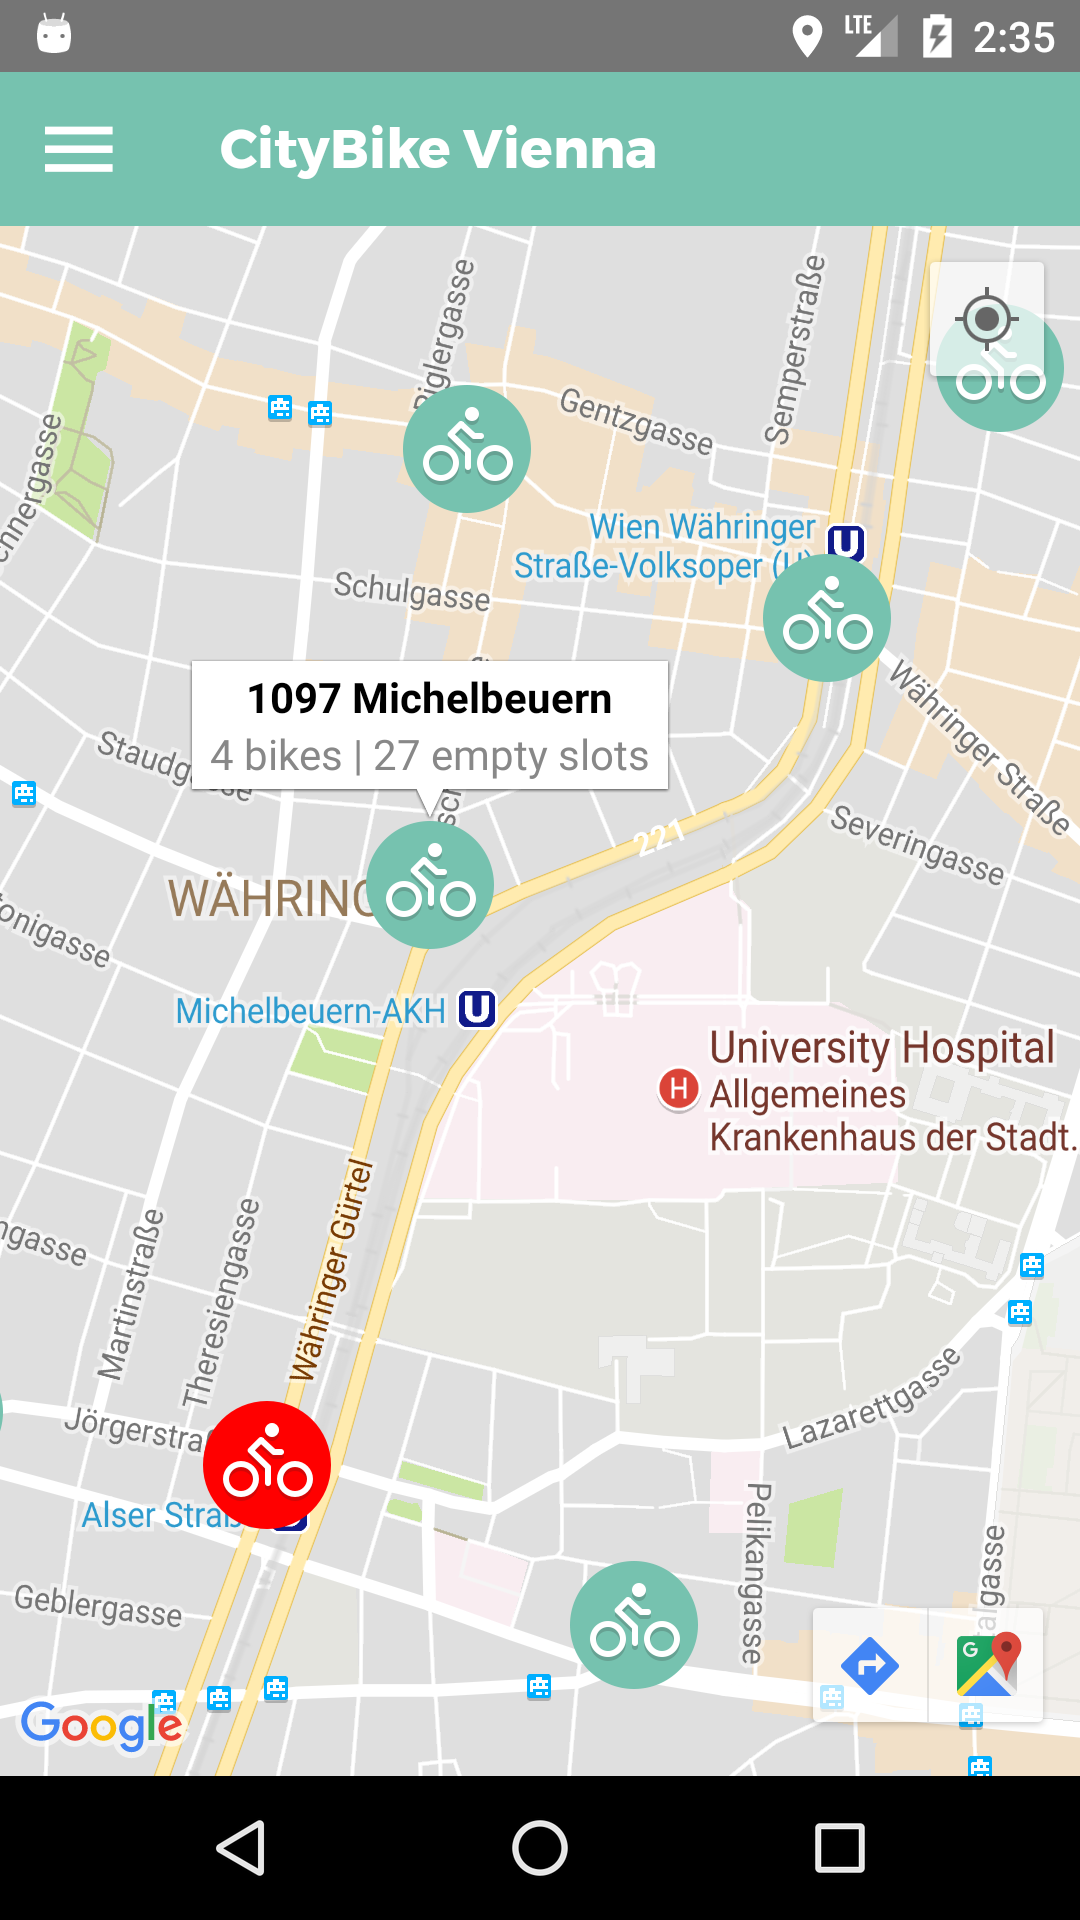
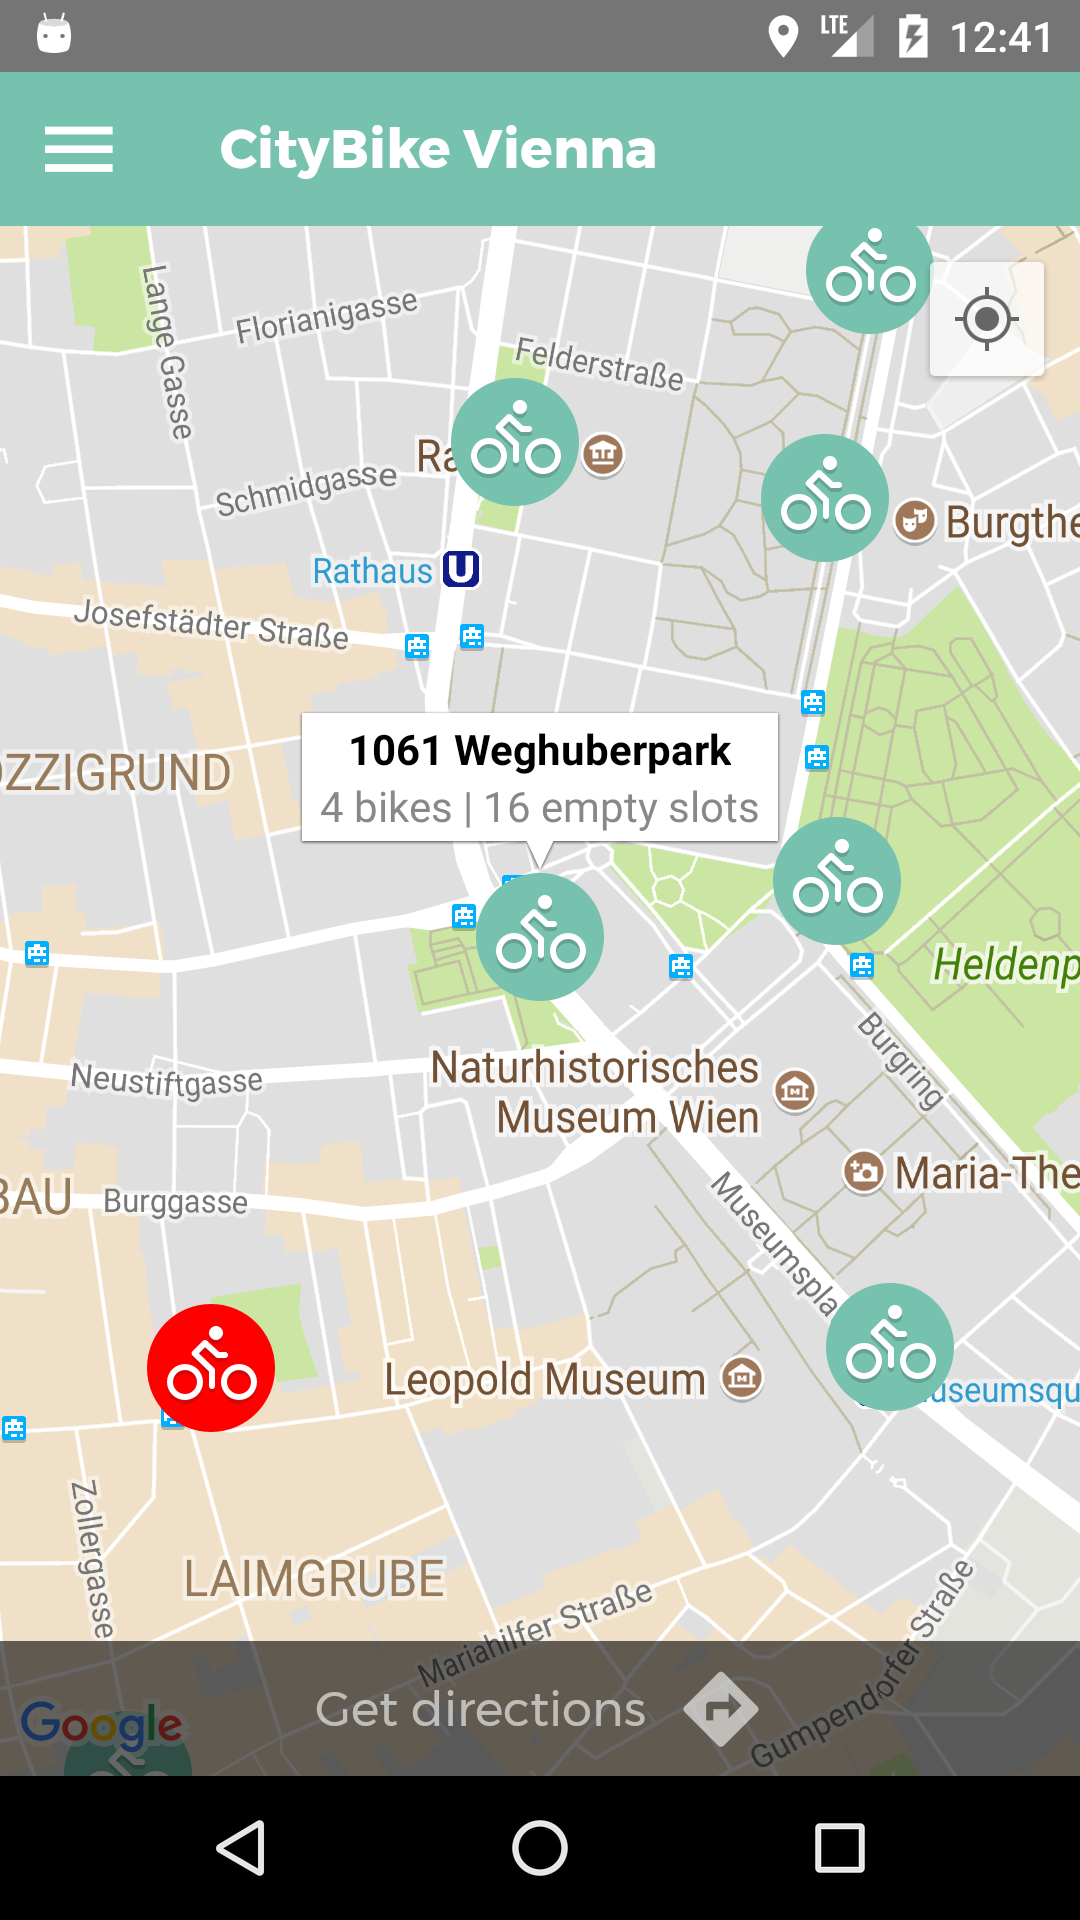
- show getdirections toolbar on marker Press

diff --git a/src/components/DirectionsToolbar.js b/src/components/DirectionsToolbar.js
@@ -1,0 +1,92 @@
+import React, { Component } from 'react';
+import GeolocationProvider from '.././lib/GeolocationProvider'
+import { View, Text, TouchableOpacity, Linking } from 'react-native'
+import Icon  from 'react-native-vector-icons/MaterialCommunityIcons';
+import styles from './styles/DirectionsToolbar'
+import { cWhite }  from '../styles/styles'
+
+class DirectionsToolbar extends Component {
+
+  constructor(props){
+    super()
+    this.state = {
+      show: false,
+      source: null,
+      destination: null
+    }
+  }
+
+  async show(destination){
+    try{
+      const position = await new GeolocationProvider().getPosition()
+      const source = { latitude: position.coords.latitude, longitude: position.coords.longitude}
+      this.setState({show: true, source: source, destination: destination})
+    }
+    catch(err){
+      this.setState({show: false})
+    }
+  }
+
+  hide(){
+    this.setState({show: false})
+  }
+
+  getParameterString = (params) => {
+    return params
+      .map(({ key, value }) => {
+        const encodedKey = encodeURIComponent(key)
+        const encodedValue = encodeURIComponent(value)
+
+        return `${encodedKey}=${encodedValue}`
+      })
+      .join('&')
+  }
+
+  getDirections = () => {
+    const params = []
+    const { source, destination } = this.state
+
+    params.push({
+      key: 'saddr',
+      value: `${source.latitude},${source.longitude}`
+    })
+
+    params.push({
+      key: 'daddr',
+      value: `${destination.latitude},${destination.longitude}`
+    })
+
+    const url = `http://maps.google.com/maps?${this.getParameterString(params)}`
+
+    return Linking.canOpenURL(url).then(supported => {
+      if (!supported) {
+        return Promise.reject(new Error(`Could not open the url: ${url}`))
+      } else {
+        return Linking.openURL(url)
+      }
+    })
+  }
+
+  render(){
+    if (this.state.show){
+      return(
+          <TouchableOpacity
+          style={styles.container}
+          onPress={this.getDirections.bind(this)}
+          >
+            <Text style = {styles.text}>
+              Get directions
+            </Text>
+            <Icon
+              name="directions"
+              size={30}
+              color={cWhite}
+            />
+          </TouchableOpacity>
+      )
+    }
+    return null;
+  }
+}
+
+export default DirectionsToolbar;

diff --git a/src/components/Plan.js b/src/components/Plan.js
@@ -1,7 +1,7 @@
 import React, { Component } from 'react';
 import { View, Text } from 'react-native';
 import MapView from 'react-native-maps';
-import StationCard from './StationCard';
+import { StationCard, DirectionsToolbar }  from '../components';
 import styles from './styles/Plan'
 
 const LATITUDE_DELTA = 0.00922*1.5
@@ -27,6 +27,17 @@ class Plan extends Component {
     }
   }
 
+  onMarkerPress(e) {
+    const destination = e.nativeEvent.coordinate
+    this.directionsToolbar.show(destination)
+  }
+
+  onPress(e) {
+    if (e.nativeEvent.action !== 'marker-press') { //user pressed anywhere else in the map,
+      this.directionsToolbar.hide()
+    }
+  }
+
   componentWillMount() {
      //Hack to ensure the showsMyLocationButton is shown initially. Idea is to force a map repaint.
     setTimeout(()=> this.setState({
@@ -41,9 +52,9 @@ class Plan extends Component {
           style={styles.map}
           region={this.state.mapRegion}
           showsUserLocation={true}
-          showsMyLocationButton={true}
-          toolbarEnabled = {true}
+          toolbarEnabled = {false}
           zoomEnabled={true}
+          onPress={this.onPress.bind(this)}
           >
           {stations.map(station => (
             <MapView.Marker
@@ -56,10 +67,14 @@ class Plan extends Component {
               description={`${station.free_bikes} bikes | ${station.empty_slots} empty slots`}
               key={station.id}
               ref={station.id}
+              onPress={this.onMarkerPress.bind(this)}
               >
             </MapView.Marker>
           ))}
         </MapView>
+        <DirectionsToolbar
+          ref = { (ref) => this.directionsToolbar = ref }
+        />
       </View>
     );
   }

diff --git a/src/screens/AboutScreen.js b/src/screens/AboutScreen.js
@@ -3,7 +3,7 @@ import { Header } from '../components'
 import { View, ListView, Text , Linking} from 'react-native'
 import { List, ListItem , Avatar} from 'react-native-elements'
 import Icon  from 'react-native-vector-icons/Ionicons';
-
+import { cBlack } from '.././styles/styles';
 
 class AboutScreen extends Component {
   static navigationOptions = {
@@ -45,7 +45,7 @@ class AboutScreen extends Component {
             onPress={() => Linking.openURL('https://github.com/tomekz/viennaBike-native')}
           />
         </List>
-        <Text style={{margin:15, fontFamily: 'Montserrat-Regular'}}>Citybike Wien and the GEWISTA Werbegesellschaft m.b.H. are not responsible for the content of this application
+        <Text style={{margin:15, fontFamily: 'Montserrat-Regular', color: cBlack}}>Citybike Wien and the GEWISTA Werbegesellschaft m.b.H. are not responsible for the content of this application
           .The author of this application is not affiliated with them in any way </Text>
       </View>
     );

diff --git a/src/components/Header.js b/src/components/Header.js
@@ -3,7 +3,7 @@ import { Text, View, TouchableOpacity } from 'react-native';
 import { NavigationActions } from 'react-navigation'
 import Icon  from 'react-native-vector-icons/Ionicons';
 import styles  from './styles/Header'
-import { colorWhite }  from '../styles/styles'
+import { cWhite }  from '../styles/styles'
 
 class Header extends Component {
 
@@ -21,7 +21,7 @@ class Header extends Component {
           <Icon
             name="md-menu"
             size={30}
-            color={colorWhite}
+            color={cWhite}
           />
         </TouchableOpacity>
         <Text style = {styles.headerTitle}>
@@ -36,7 +36,7 @@ class Header extends Component {
           <Icon
             name="md-refresh"
             size={30}
-            color={colorWhite}
+            color={cWhite}
           />
         </TouchableOpacity>
           : null }

diff --git a/src/components/styles/Header.js b/src/components/styles/Header.js
@@ -1,5 +1,5 @@
 import { StyleSheet } from 'react-native'
-import { colorPrimaryGreen, colorWhite } from '../../styles/styles'
+import { cPrimaryGreen, cWhite } from '../../styles/styles'
 import commonStyles from '../../styles/styles'
 
 const styles = StyleSheet.create({
@@ -8,7 +8,7 @@ const styles = StyleSheet.create({
     paddingBottom: 10,
     flexDirection: 'row',
     alignItems: 'center',
-    backgroundColor: colorPrimaryGreen,
+    backgroundColor: cPrimaryGreen,
   },
   headerIcon: {
     flex: 1,
@@ -18,7 +18,7 @@ const styles = StyleSheet.create({
   headerTitle: StyleSheet.flatten([
     commonStyles.textBold,
     {
-      color: colorWhite,
+      color: cWhite,
       flex: 5,
       fontSize: 18
     }

diff --git a/src/styles/styles.js b/src/styles/styles.js
@@ -1,9 +1,11 @@
 import { StyleSheet } from 'react-native'
 
-const lightGrey = '#808080'
-const red = '#FF0000'
-export const colorPrimaryGreen = '#76C2AF'
-export const colorWhite = 'white'
+const cLightGrey = '#808080'
+const cRed = '#FF0000'
+export const cPrimaryGreen = '#76C2AF'
+export const cWhite = '#ffffff'
+export const cBlack = '#000000'
+
 
 export default styles = StyleSheet.create({
   textBold: {
@@ -17,11 +19,11 @@ export default styles = StyleSheet.create({
   },
   textLightGrey: {
     fontSize: 12,
-    color: lightGrey,
+    color: cLightGrey,
     fontFamily: 'Montserrat-Regular',
   },
   textRed: {
-    color: red,
+    color: cRed,
     fontFamily: 'Montserrat-Regular'
   },
   container: {

diff --git a/src/components/styles/DirectionsToolbar.js b/src/components/styles/DirectionsToolbar.js
@@ -1,0 +1,24 @@
+import { StyleSheet ,Dimensions} from 'react-native'
+import { cBlack, cWhite  } from '../../styles/styles'
+const styles = StyleSheet.create({
+  container: {
+    flex: 1,
+    position: 'absolute',
+    bottom: 0,
+    height: 45,
+    opacity: 0.6,
+    flexDirection: 'row',
+    alignItems: 'center',
+    justifyContent: 'center',
+    backgroundColor: cBlack,
+    width: Dimensions.get('window').width
+  },
+  text: {
+    color: cWhite,
+    marginRight: 10,
+    fontSize: 16,
+    fontFamily: 'Montserrat-Regular'
+  }
+});
+
+export default styles;

diff --git a/src/navigation/Navigator.js b/src/navigation/Navigator.js
@@ -3,7 +3,7 @@ import { DrawerNavigator } from 'react-navigation'
 import StationsScreen from '.././screens/StationsScreen'
 import PlanScreen from '.././screens/PlanScreen'
 import AboutScreen from '.././screens/AboutScreen'
-import { colorPrimaryGreen } from '../styles/styles'
+import { cPrimaryGreen } from '../styles/styles'
 
 
 export default DrawerNavigator({
@@ -13,6 +13,6 @@ export default DrawerNavigator({
 },
 {
   contentOptions: {
-    activeTintColor: colorPrimaryGreen,
+    activeTintColor: cPrimaryGreen,
   }
 })

diff --git a/src/components/StationCard.js b/src/components/StationCard.js
@@ -39,7 +39,7 @@ class StationCard extends Component {
                {station.free_bikes} bikes
               </Text>
               <Text style={commonStyles.textRegular}  >
-               {station.extra.slots} free slots
+               {station.empty_slots} free slots
               </Text>
                { station.distance &&
                 <Text style={commonStyles.textBold} >

diff --git a/src/components/index.js b/src/components/index.js
@@ -3,11 +3,14 @@ import StationCard from './StationCard';
 import LoadingScreen from './LoadingScreen';
 import Plan from './Plan';
 import Header from './Header';
+import DirectionsToolbar from './DirectionsToolbar';
+
 
 export {
   StationsList,
   StationCard,
   LoadingScreen,
   Plan,
-  Header
+  Header,
+  DirectionsToolbar
 };
